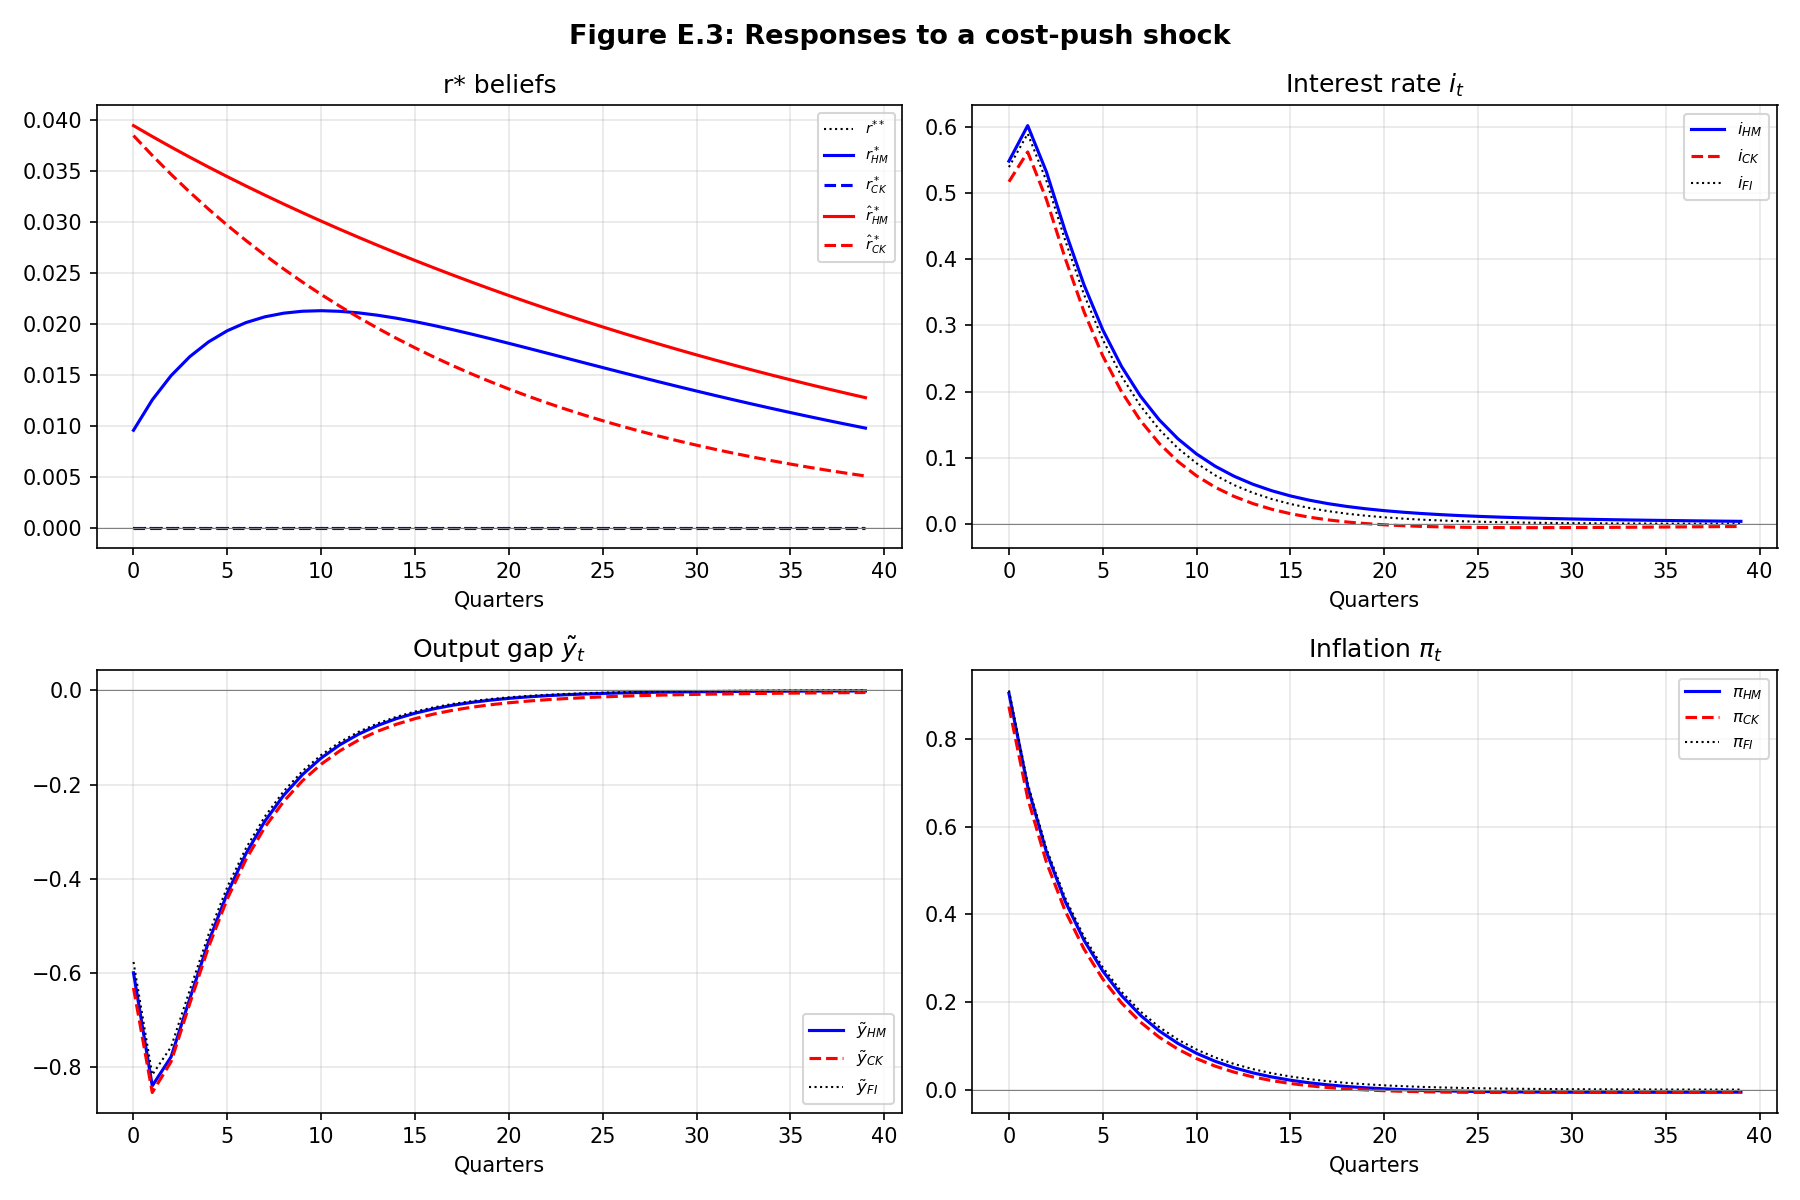
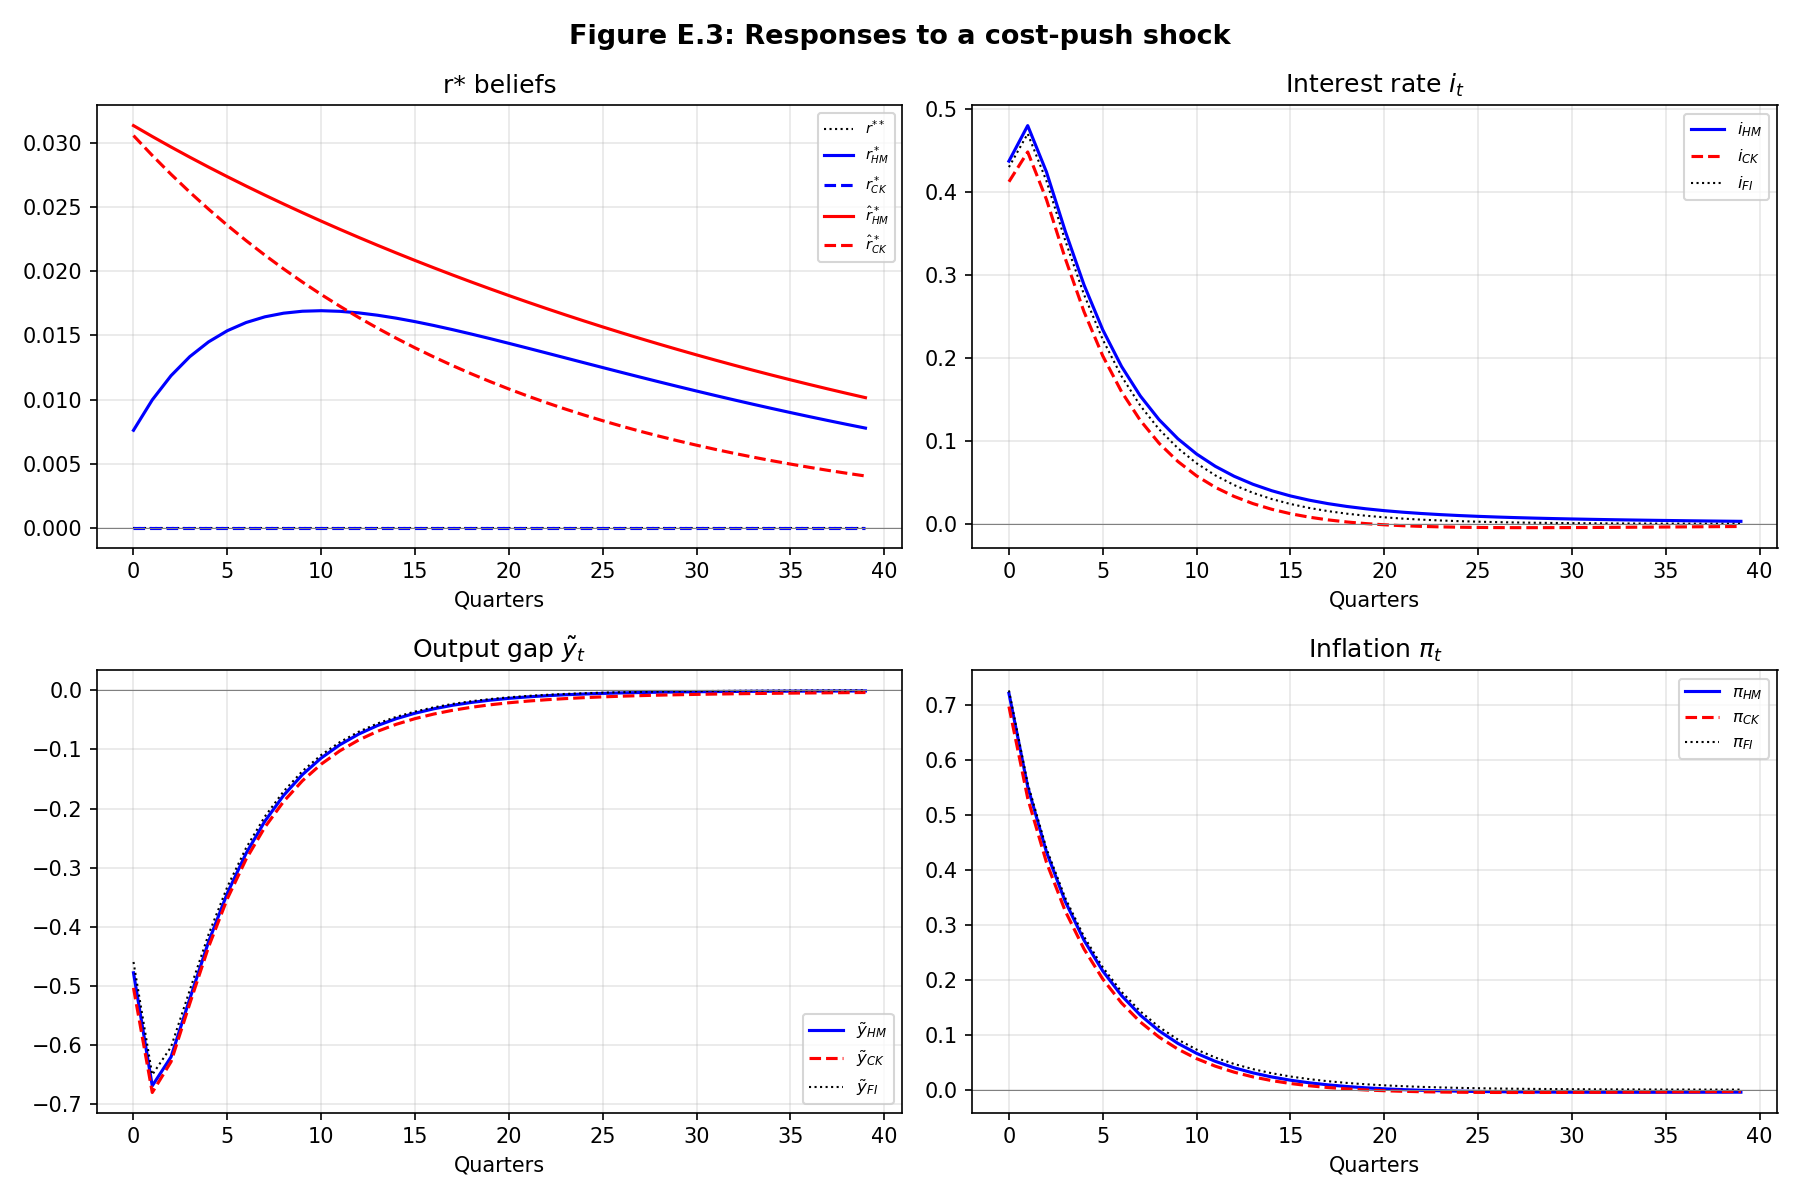
HOM normalization

diff --git a/hom/solve_hom.py b/hom/solve_hom.py
@@ -261,27 +261,15 @@ def main():
 
     mp_irfs = compute_all_irfs(params.IDX_UC, mp_shock_size, 20)
 
-    # E.2: Demand shock -- normalize to HoM i_t[0] = +0.59 annualized.
-    test = compute_all_irfs(params.IDX_UH, 1.0, 40)
-    hom_i0 = test['HoM'][2][0]
-    if abs(hom_i0) > 1e-15:
-        demand_shock_size = (0.59 / 4.0) / hom_i0
-    else:
-        demand_shock_size = params.sigma_uh
-    print(f"  Demand: HoM i_t[0] per unit u_h = {hom_i0:.6f}")
-    print(f"  Shock size for i_t[0] = +0.59 annualized = {demand_shock_size:.6f}")
+    # E.2: Demand shock -- raw -1 sigma shock.
+    demand_shock_size = -params.sigma_uh
+    print(f"  Demand: raw shock size = {demand_shock_size:.6f} (-1 sigma)")
 
     demand_irfs = compute_all_irfs(params.IDX_UH, demand_shock_size, 40)
 
-    # E.3: Cost-push shock -- normalize to HoM output gap = -0.6 on impact.
-    test = compute_all_irfs(params.IDX_UP, 1.0, 40)
-    hom_y0 = test['HoM'][3][0]
-    if abs(hom_y0) > 1e-15:
-        cp_shock_size = -0.6 / hom_y0
-    else:
-        cp_shock_size = params.sigma_up
-    print(f"  Cost-push: HoM y_t[0] per unit u_p = {hom_y0:.6f}")
-    print(f"  Shock size for y_t[0] = -0.6 = {cp_shock_size:.6f}")
+    # E.3: Cost-push shock -- raw +1 sigma shock.
+    cp_shock_size = params.sigma_up
+    print(f"  Cost-push: raw shock size = {cp_shock_size:.6f} (+1 sigma)")
 
     cp_irfs = compute_all_irfs(params.IDX_UP, cp_shock_size, 40)
 
@@ -294,9 +282,9 @@ def main():
           f"(target: -0.250)")
     print(f"  E.1 FI  i_t[0] = {mp_irfs['FI'][2][0] * PP_ANNUAL:.3f} pp")
     print(f"  E.2 HoM i_t[0] = {demand_irfs['HoM'][2][0] * PP_ANNUAL:.3f} pp "
-          f"(target: 0.590)")
+          f"(raw -1 sigma)")
     print(f"  E.3 HoM y_t[0] = {cp_irfs['HoM'][3][0] * PP_LEVEL:.3f} pp "
-          f"(target: -0.600)")
+          f"(raw +1 sigma)")
     print(f"  E.4 FI  r** beliefs[0] = {rstar_irfs['FI'][0][0] * PP_ANNUAL:.3f} pp "
           f"(target: -1.000)")
 
